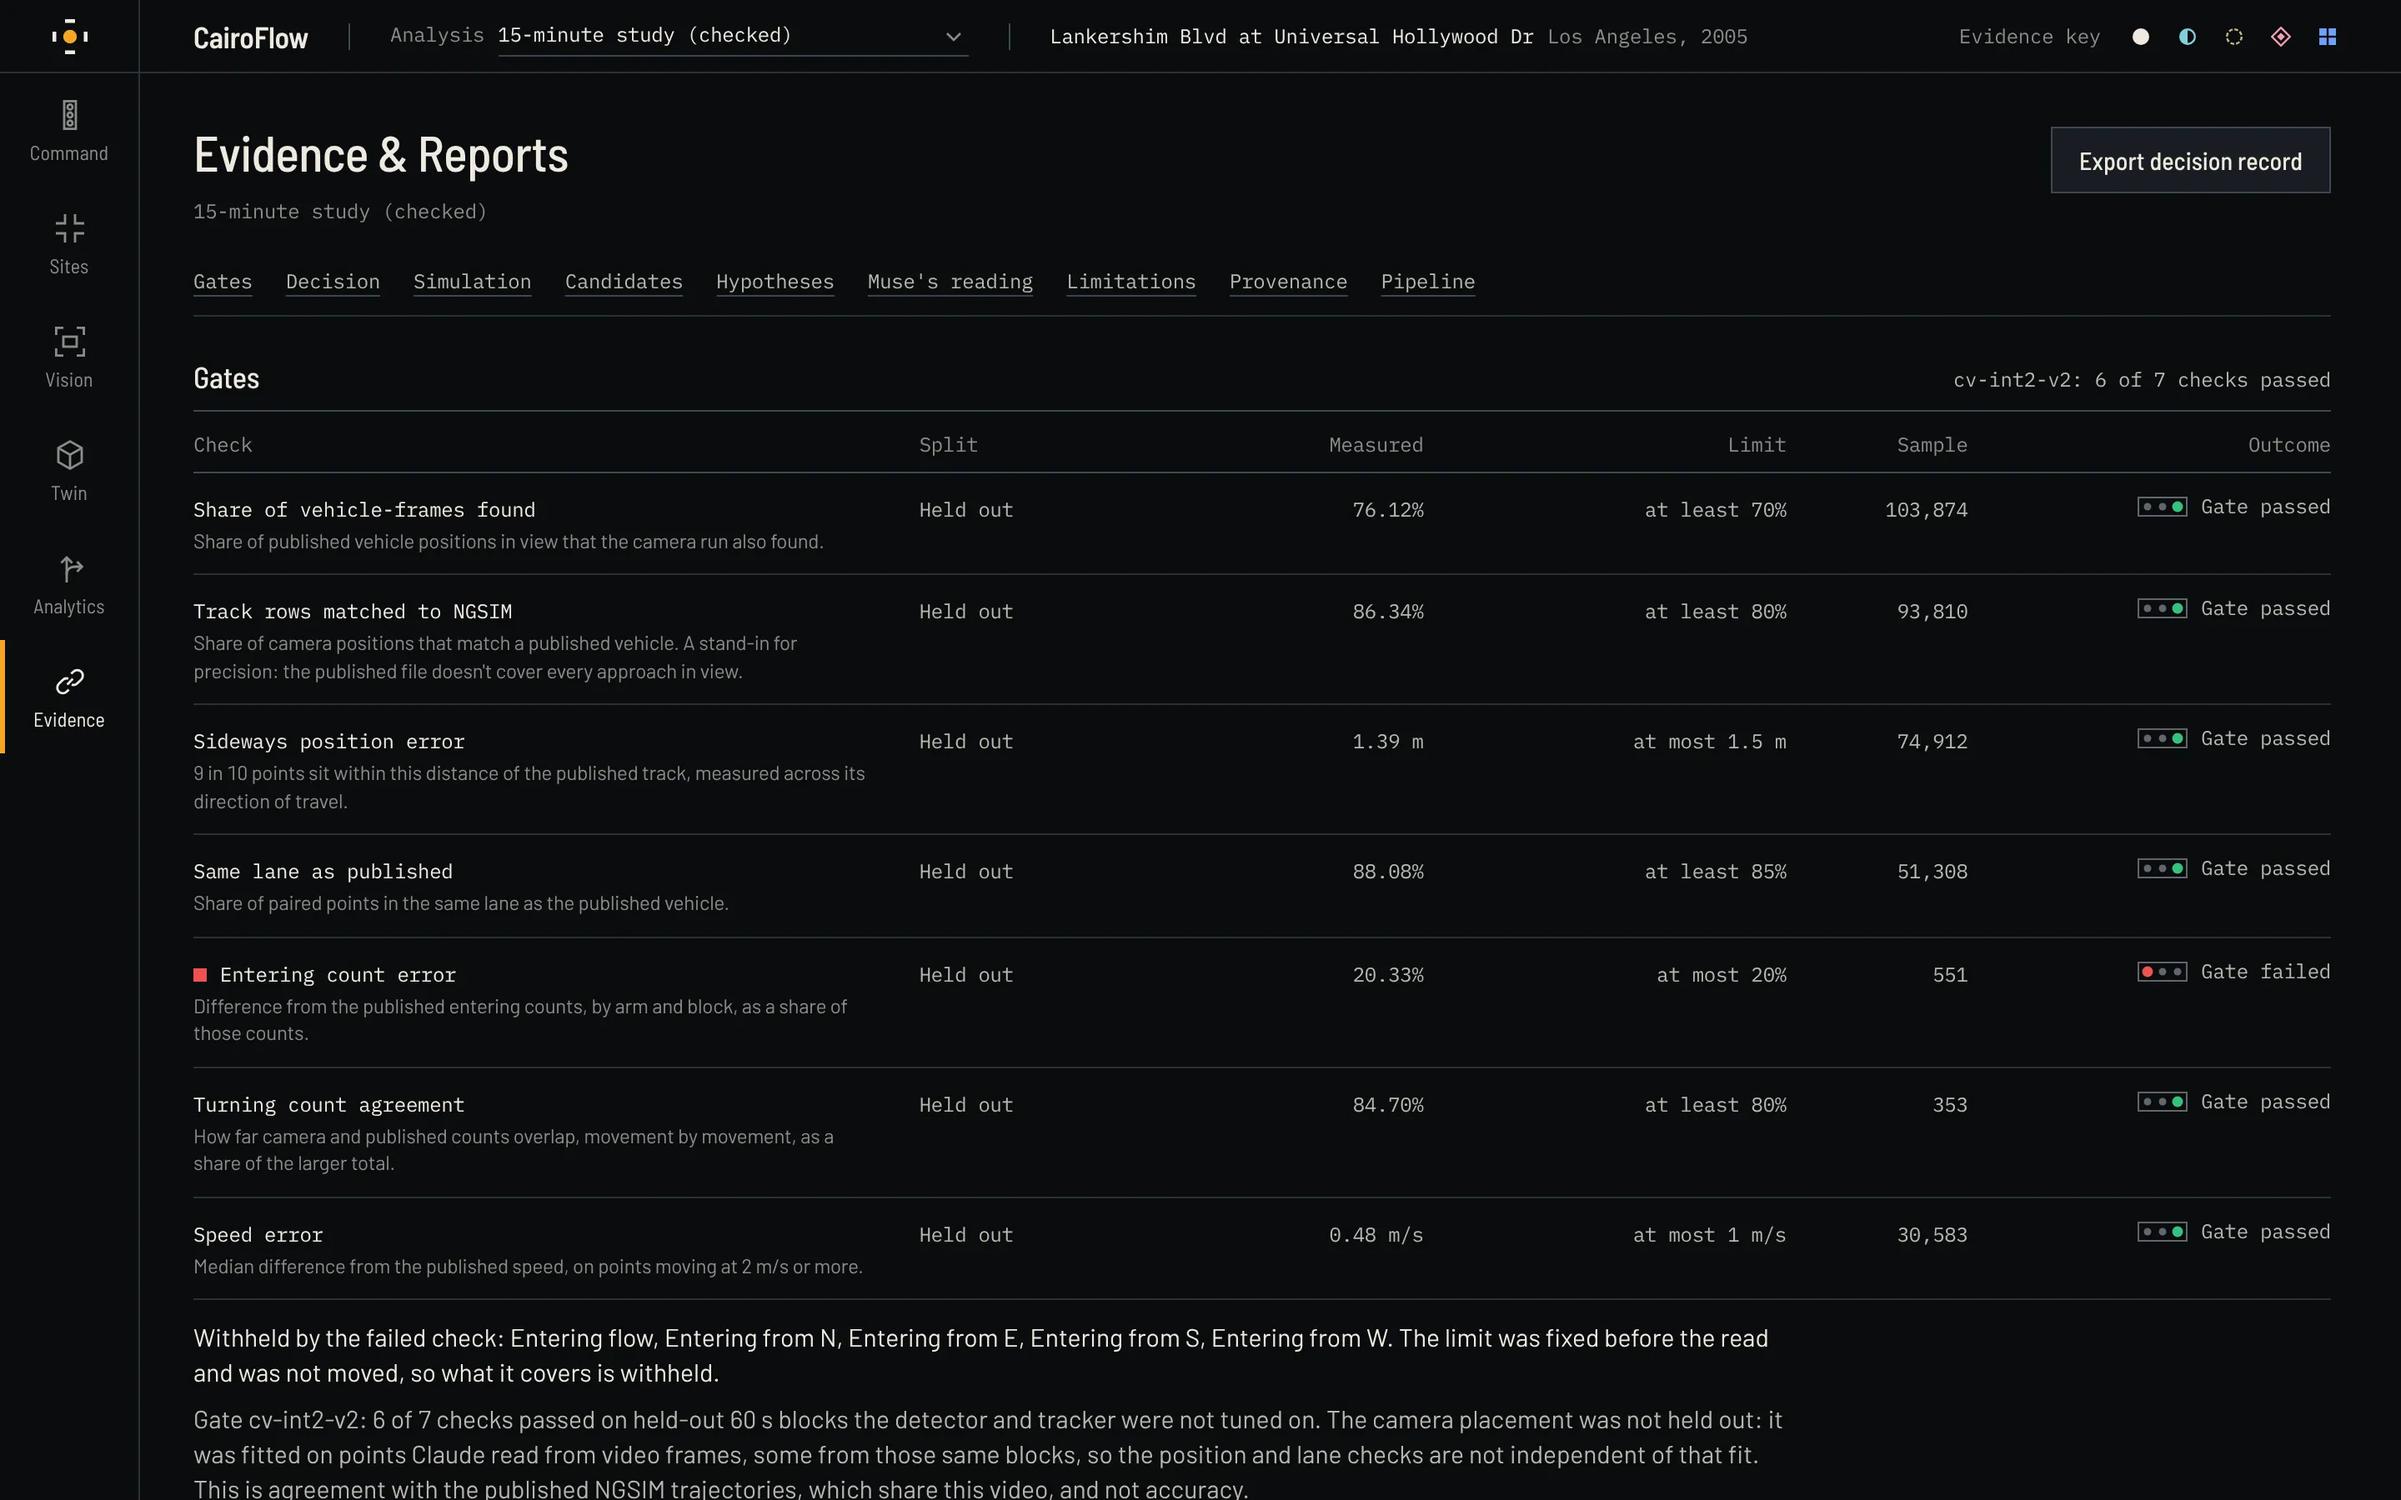
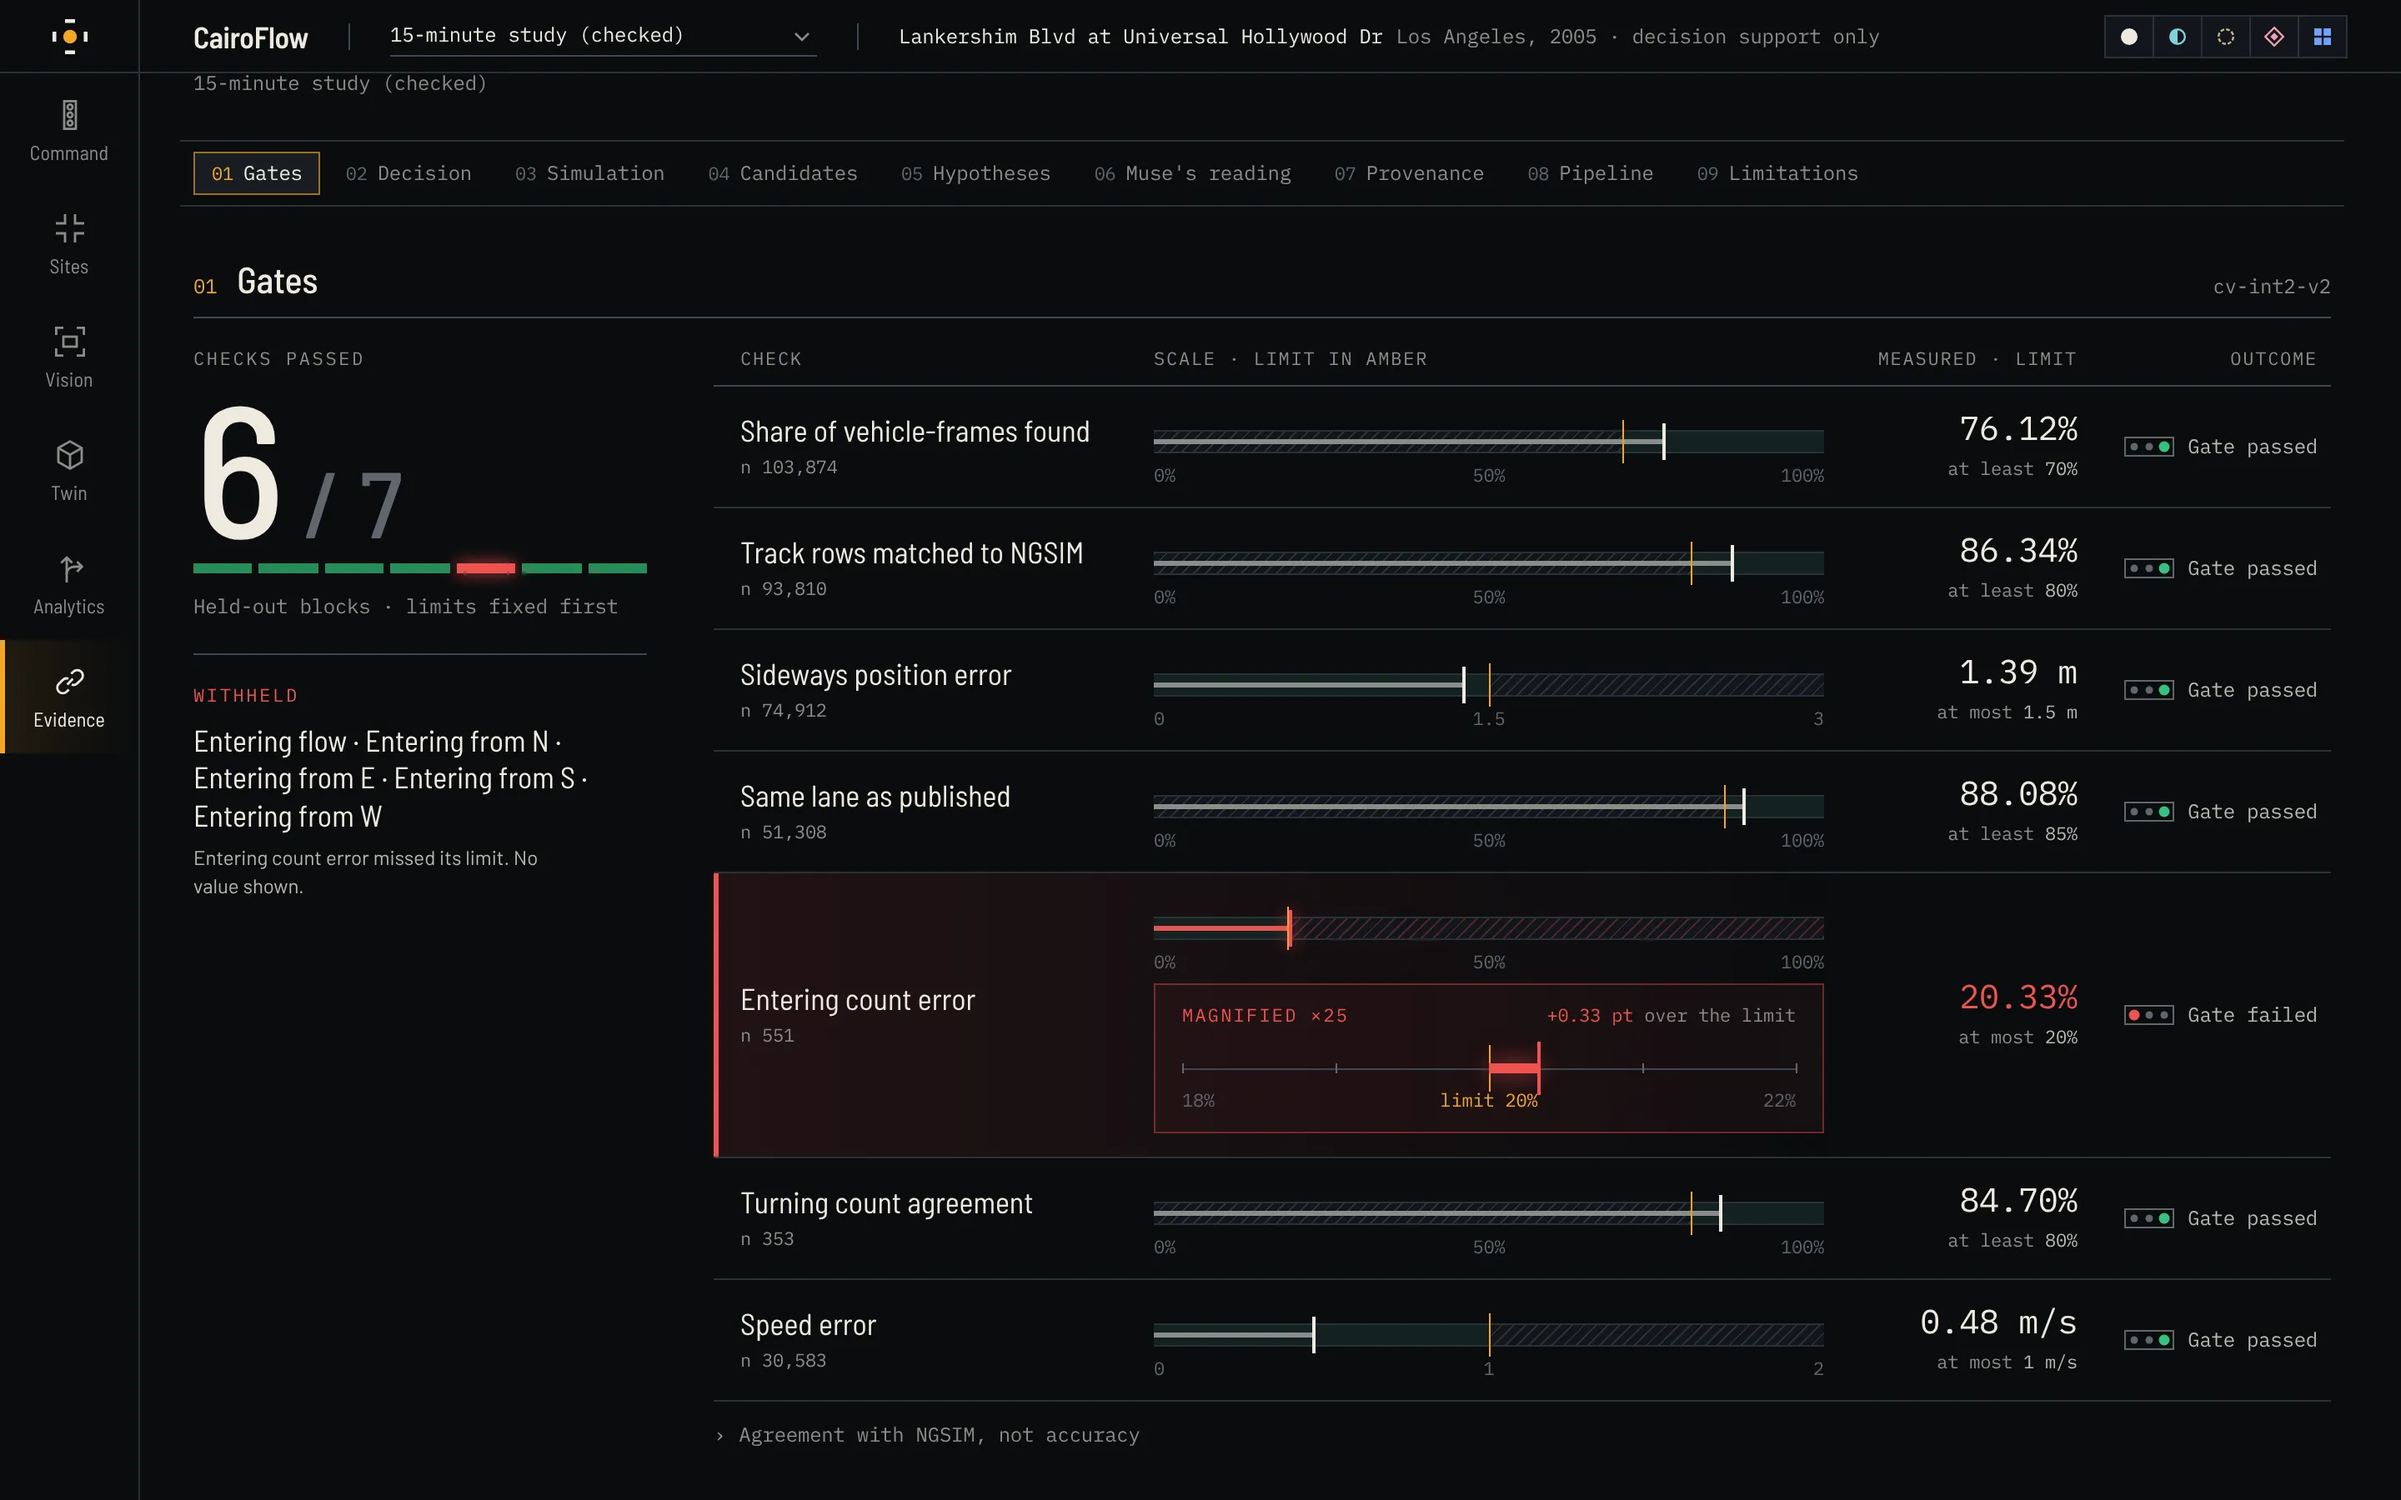
README: current screenshots (command, twin, evidence, analytics); twin context blocks named in Limits
Claude-Session: https://claude.ai/code/session_01EY8pSRtmRH3PheJgaj9dHP

diff --git a/README.md b/README.md
@@ -6,7 +6,7 @@ CairoFlow turns one recorded overhead video, a 2005 NGSIM camera with a placemen
 
 Built for the Meta Global AI Developer Hackathon 2026, using SAM 3.1 and Muse Spark.
 
-![Command view: the entering-flow figure is withheld because its check failed, and the decision panel says nothing is recommended](docs/images/home.webp)
+![Command view: 6 of 7 checks passed, the entering-flow figure is withheld because its check failed, and the decision panel says nothing is recommended](docs/images/home.webp)
 
 ## In one minute
 
@@ -17,9 +17,11 @@ Built for the Meta Global AI Developer Hackathon 2026, using SAM 3.1 and Muse Sp
 - **Try it.** Five commands, offline, no API key: see [From a fresh clone](#from-a-fresh-clone). The suite has about 1,800 tests (Python and web).
 - **Watch it.** The demo video is cut from captures of the real app. Its Remotion source is in [`video/`](video/), and [docs/VIDEO.md](docs/VIDEO.md) has the storyboard, the voice-over and the commands to re-render it.
 
-| Digital twin, on the same clock as the video | Evidence: each figure next to its pre-committed limit |
+| Digital twin: one road network, tracked vehicles on the video's clock | Evidence: each check against the limit fixed before the read |
 |---|---|
-| ![3D twin of the junction with tracked vehicles](docs/images/twin.webp) | ![Gate table with six passed checks and one failed](docs/images/evidence.webp) |
+| ![3D twin of the junction: a continuous road network with tracked vehicles and context blocks](docs/images/twin.webp) | ![Gate panel: six checks pass, entering count error misses its limit by 0.33 points, magnified](docs/images/evidence.webp) |
+
+![Analytics: turning movements as ribbons sized by count, an approach-by-exit matrix with camera and NGSIM counts, and the withheld entering flow](docs/images/analytics.webp)
 
 ## What it found
 
@@ -150,7 +152,7 @@ Meta API spend since the delivery [ledger](experiments/records/meta-spend-202611
 - **Vehicle classes are unchecked.** NGSIM publishes a `v_class` field (motorcycle, auto, truck), but the columns we fetched leave it out, so classes weren't compared and class counts stay ungated.
 - **Speed is agreement only.** Along-road distances from this homography aren't accepted as measurements. Speed is shown because, on vehicles moving at 2 m/s or more, it agreed with NGSIM within the limit. That agreement is empirical, not a property of the homography. Stopped share has no gate, because that check doesn't cover stopped time.
 - **The seeds measure simulator noise.** The 20 seeds vary SUMO's noise on one replayed 10.5-minute window, not demand.
-- **The twin is approximate.** Road geometry is derived from trajectories, and vehicle bodies are schematic.
+- **The twin is approximate.** Road geometry is derived from trajectories, vehicle bodies are schematic, and the blocks beside the road are context, not surveyed buildings.
 - **Decision support only.** Nothing here controls real traffic.
 
 ## Data and licences
